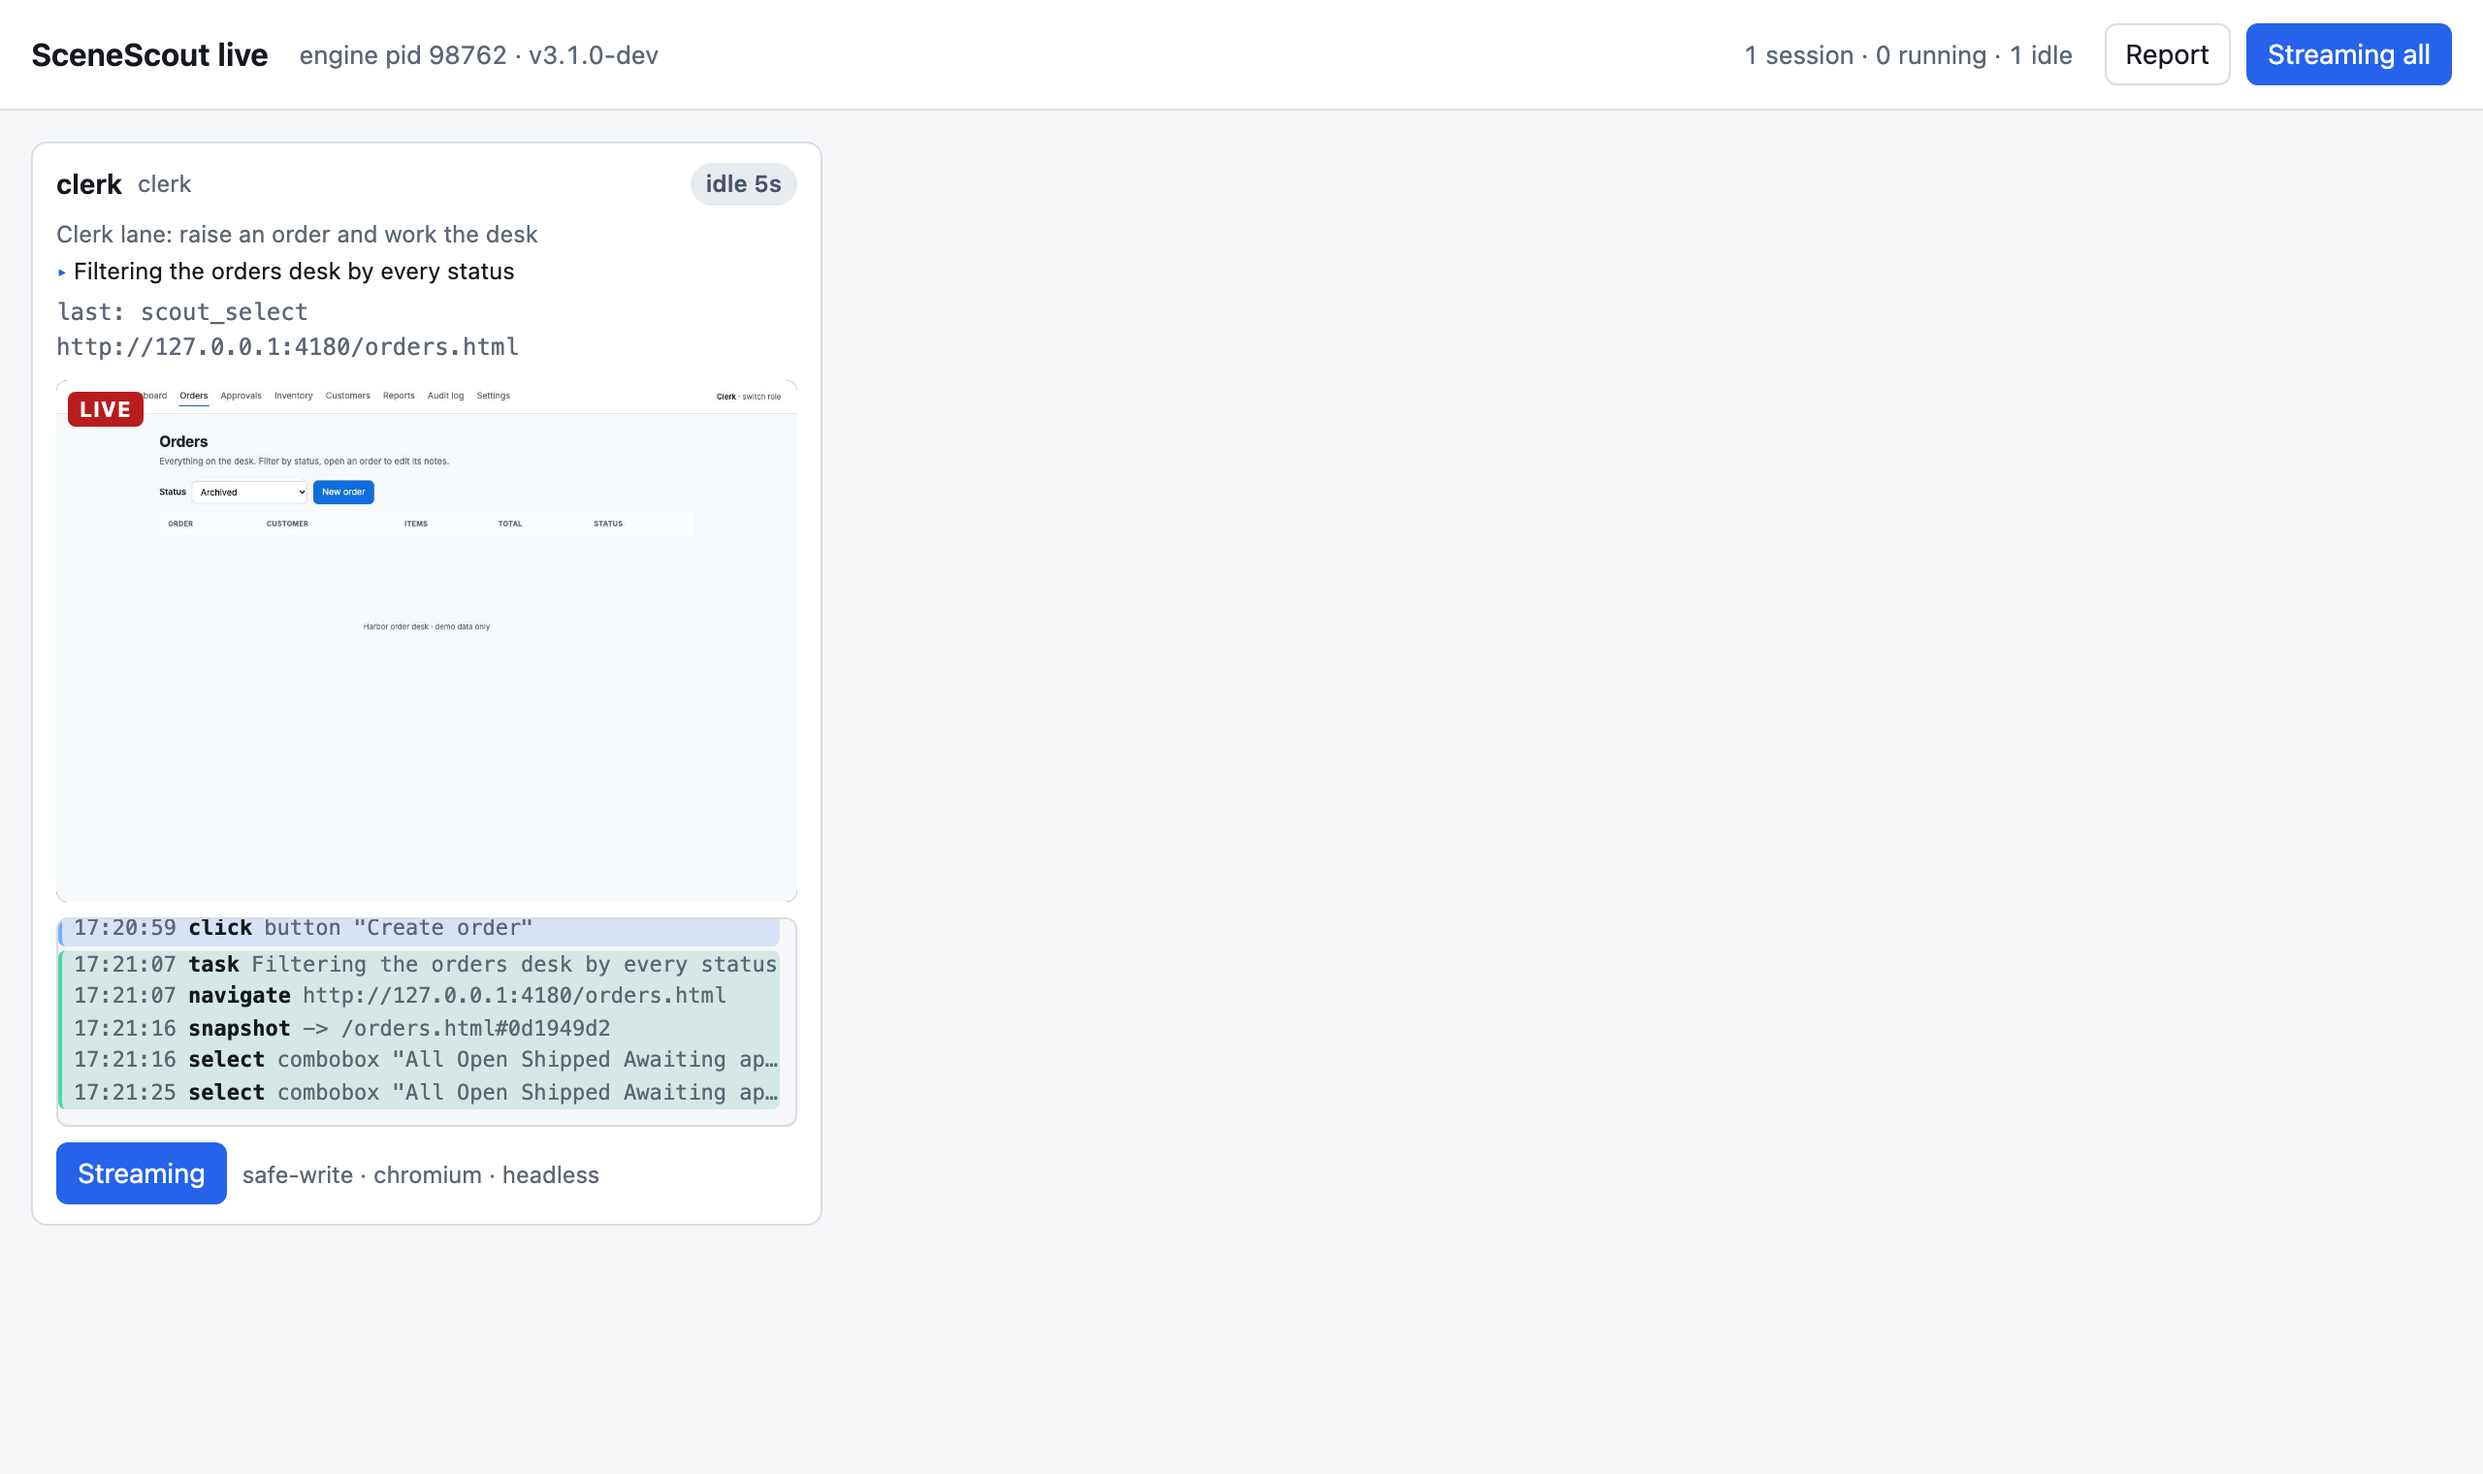
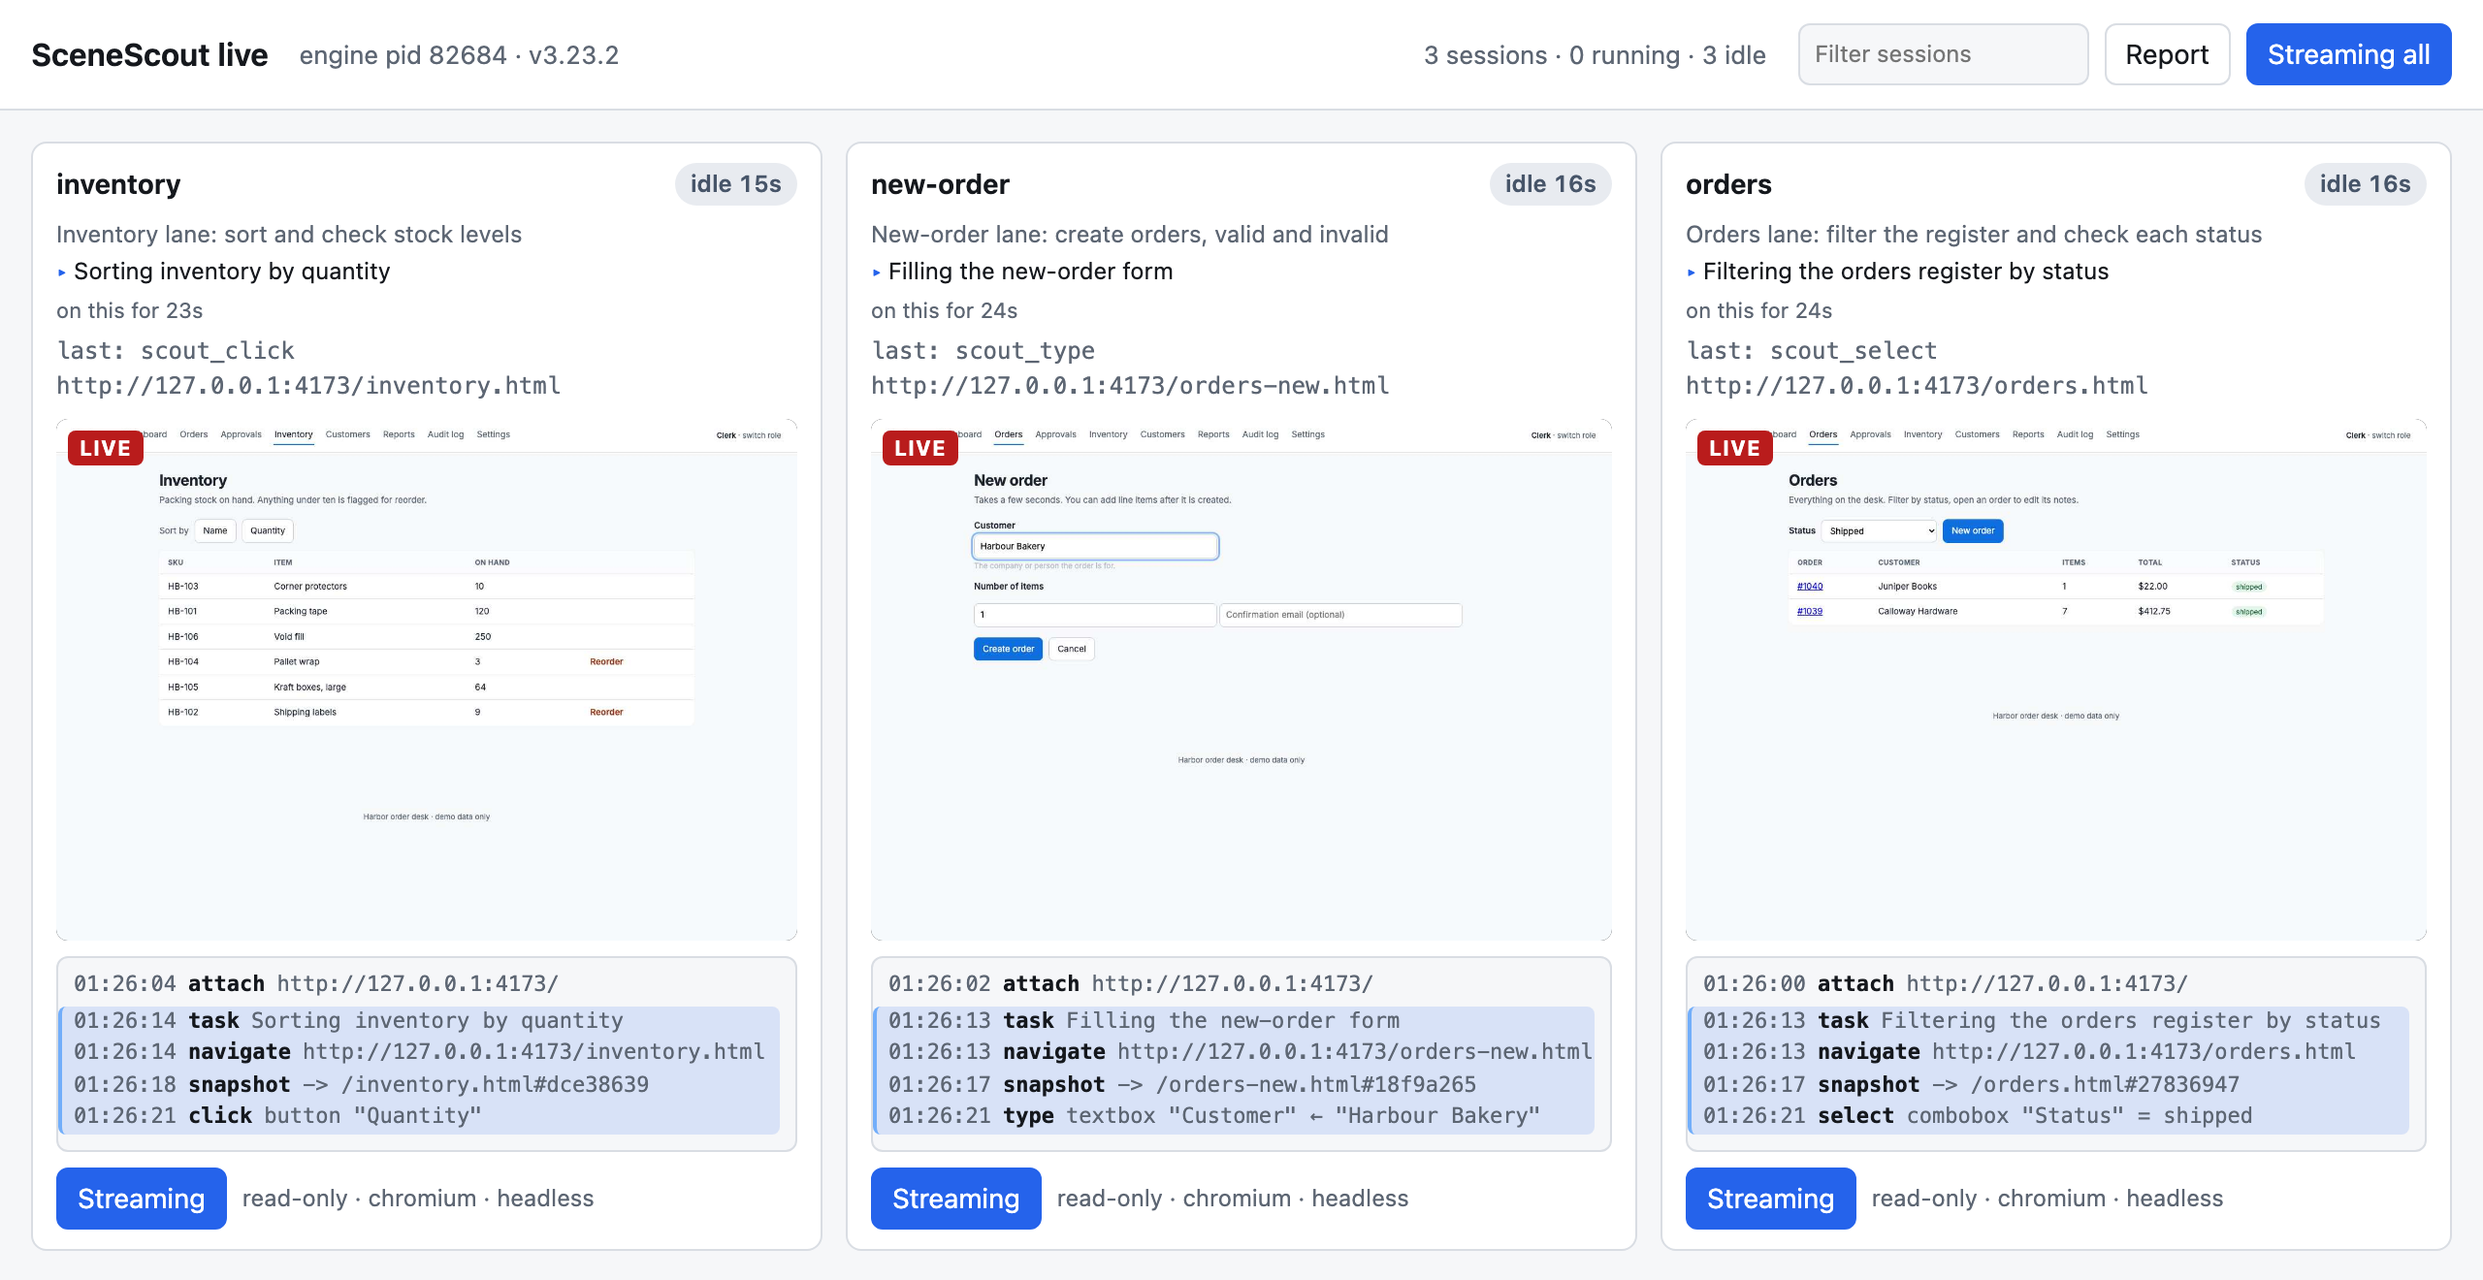
Show every lane streaming in the live-view picture, and the pull-request commands on the website and README
Adds the telescope mark to the README header.

diff --git a/site/index.html b/site/index.html
@@ -809,6 +809,55 @@
         background: var(--enemy);
       }
 
+      /* Summon a scout: PR comments */
+      .summon {
+        display: grid;
+        grid-template-columns: minmax(0, 6fr) minmax(0, 5fr);
+        gap: clamp(28px, 4vw, 56px);
+        align-items: start;
+      }
+      @media (max-width: 900px) {
+        .summon {
+          grid-template-columns: minmax(0, 1fr);
+        }
+      }
+      .summon .copy-col {
+        display: grid;
+        gap: 18px;
+      }
+      .summon .frame.gilded {
+        max-height: 720px;
+        overflow: hidden;
+      }
+      .commands {
+        list-style: none;
+        margin: 0;
+        padding: 0;
+        display: grid;
+        gap: 14px;
+      }
+      .commands li {
+        display: grid;
+        gap: 4px;
+        padding: 14px 16px;
+        background: var(--night-2);
+        border: 1px solid var(--rule);
+        border-radius: 6px;
+      }
+      .commands code {
+        color: var(--arcane);
+        font-size: 0.88rem;
+        overflow-wrap: anywhere;
+      }
+      .commands span {
+        color: var(--muted);
+        font-size: 0.97rem;
+      }
+      .summon .note {
+        color: var(--muted);
+        font-size: 0.95rem;
+      }
+
       /* Your party */
       .party {
         display: grid;
@@ -1363,6 +1412,45 @@
         </div>
       </section>
 
+      <section id="summon">
+        <div class="wrap summon">
+          <div class="copy-col">
+            <span class="tag">Summon a scout</span>
+            <h2>Ask for it on any pull request.</h2>
+            <p class="lede">Type a command in a comment and SceneScout answers in the thread, with pictures taken by a real browser.</p>
+            <ul class="commands">
+              <li><code>/scenescout qa</code><span>Explores the pull request's preview and replies with what it found.</span></li>
+              <li><code>/scenescout qa show the Save button</code><span>Replies with a picture of that element.</span></li>
+              <li>
+                <code>/scenescout qa compare the Save button</code
+                ><span>Pictures it on the base and on the pull request, with the changed pixels highlighted.</span>
+              </li>
+              <li>
+                <code>/scenescout qa check</code
+                ><span>Runs your saved journeys on the branch and replies with each one's result. The video of every journey is in the run's files.</span>
+              </li>
+            </ul>
+            <p class="note">
+              The preview commands test a deployed preview, so the pull request's code never runs beside the model's key. <code>qa check</code> runs your own
+              workflow on the branch and uses no key at all.
+              <a href="https://github.com/brunoboto96/SceneScout/blob/main/docs/ci.md#a-qa-review-from-a-pull-request-comment">Set it up</a>.
+            </p>
+          </div>
+          <figure class="shot">
+            <div class="frame gilded">
+              <img
+                src="screenshots/pr-qa-compare.png"
+                width="1048"
+                height="1676"
+                alt="A pull request comment, /scenescout qa compare the Save button, and SceneScout's reply: the button on the base branch in blue and on the pull request in green, with 61.2% of pixels changed highlighted"
+                loading="lazy"
+              />
+            </div>
+            <figcaption>A real exchange from the project's sandbox repository.</figcaption>
+          </figure>
+        </div>
+      </section>
+
       <section id="party">
         <div class="wrap party">
           <div class="copy-col">
@@ -1376,12 +1464,12 @@
               <img
                 src="screenshots/live-view.png"
                 width="2560"
-                height="1520"
-                alt="The live view during a run of three agents: one card per agent with its task, the page it is on and a feed of its actions"
+                height="1320"
+                alt="The live view with three agents streaming at once: each card shows its lane, its task, its page live and the actions it just took"
                 loading="lazy"
               />
             </div>
-            <figcaption>A party of three agents testing the demo app at once.</figcaption>
+            <figcaption>A party of three agents, every one streaming its page live.</figcaption>
           </figure>
         </div>
       </section>

diff --git a/README.md b/README.md
@@ -1,6 +1,8 @@
 <div align="center">
 
-# 🔭 SceneScout
+<img src="site/favicon.svg" alt="" width="88" height="88" />
+
+# SceneScout
 
 **Your coding agent, turned into an exploratory QA tester for any web app.**
 
@@ -134,7 +136,7 @@ Everything is one self-contained HTML page per report, with no scripts, nothing 
 
 Each exploratory run opens a live view on your machine, with one card per agent: what it is doing, the page it is on, and a feed of every action. Three agents are testing the demo app in parallel here:
 
-<p align="center"><img src="examples/screenshots/live-view.png" alt="The live view during a run of three parallel agents against the demo app: one card per session, each with its role and objective, the task it is on, the tool it is running, the page it is on, a live thumbnail, and a feed of the actions it just took, tinted one colour per task" width="880" /></p>
+<p align="center"><img src="examples/screenshots/live-view.png" alt="The live view during a run of three parallel agents against the demo app, every one streaming its page live: one card per session, each with its role and objective, the task it is on, the tool it is running, a live picture of its page, and a feed of the actions it just took, tinted one colour per task" width="880" /></p>
 
 You can read the report while the agents are still working, and scrub back through any session's timeline. Beside `report.md`, every run writes `report.html`, the whole run as one self-contained page; ask for a recorded run and it also keeps a frame after every action.
 
@@ -217,6 +219,21 @@ A gate on every pull request that keeps its evidence, as a GitHub Action:
 ```
 
 [docs/ci.md](docs/ci.md) has complete workflows, every option, and the same check on GitLab CI, CircleCI or any shell.
+
+### Ask for it on a pull request
+
+Type a command in a pull request comment and SceneScout answers in the thread, with pictures taken by a real browser:
+
+| Comment | Reply |
+|---|---|
+| `/scenescout qa` | Explores the pull request's preview and replies with what it found |
+| `/scenescout qa show the Save button` | A picture of that element |
+| `/scenescout qa compare the Save button` | The element on the base and on the pull request, with the changed pixels highlighted |
+| `/scenescout qa check` | Runs your saved journeys on the branch and replies with each one's result; the video of every journey is in the run's files |
+
+<p align="center"><img src="examples/screenshots/pr-qa-compare.png" alt="A pull request comment, /scenescout qa compare the Save button, and SceneScout's reply: the button on the base branch in blue and on the pull request in green, with 61.2% of pixels changed highlighted" width="520" /></p>
+
+The preview commands test a deployed preview, so the pull request's code never runs beside the model's key; `qa check` runs your own workflow and uses no key. [Setting it up](docs/ci.md#a-qa-review-from-a-pull-request-comment).
 
 ## 🔒 Safe by default
 
